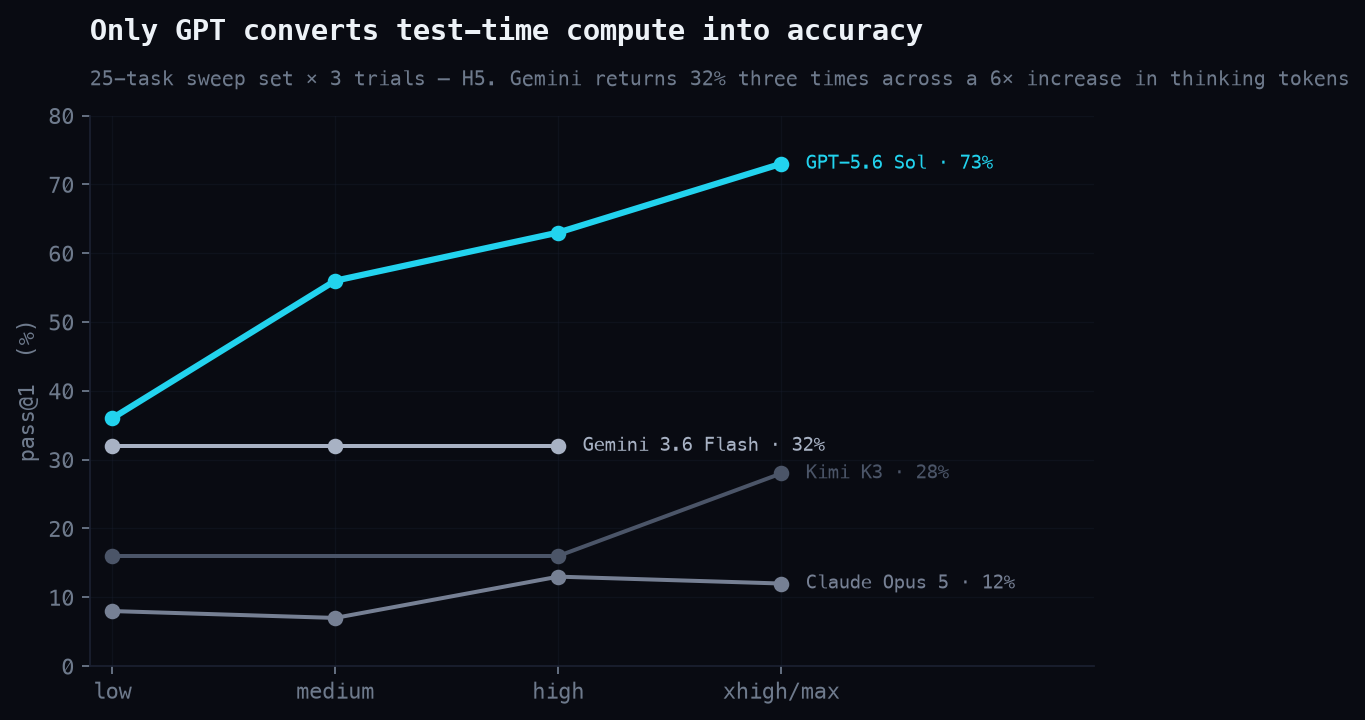
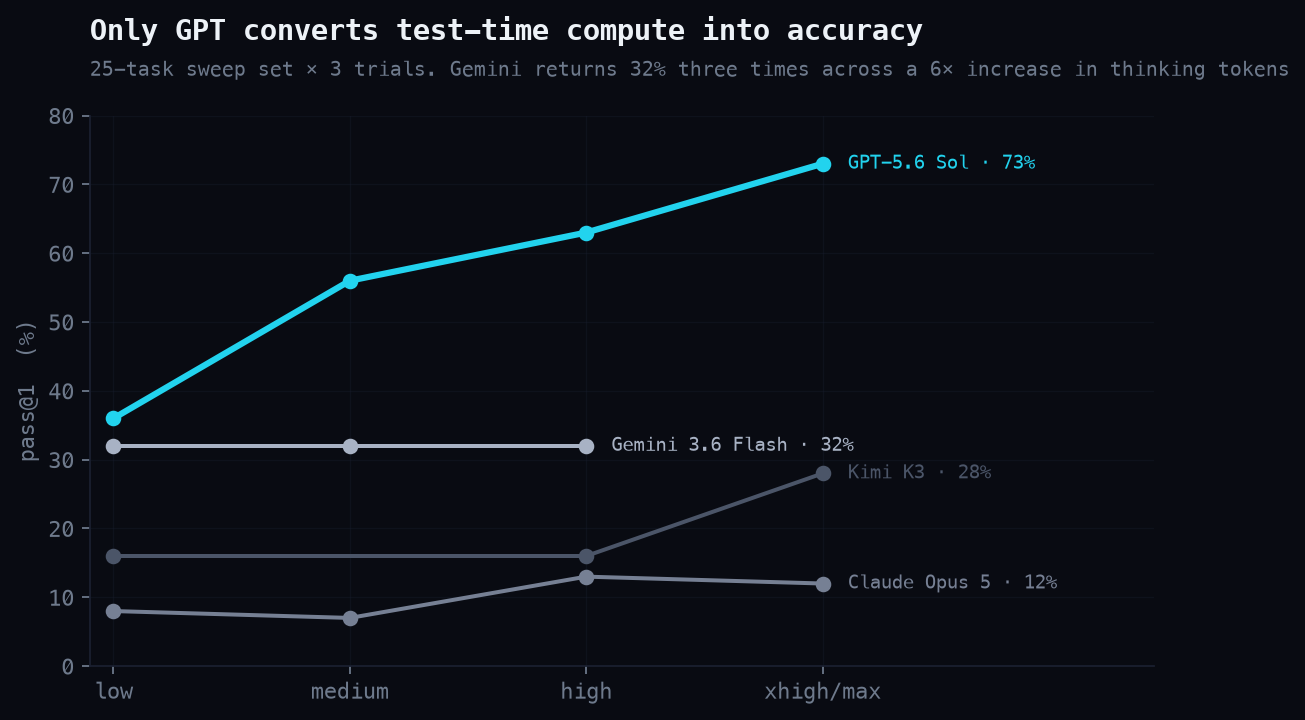
Reader-facing polish: failure-mode explainers, ablation figures, plain language
- STUDY gains a plain-terms table defining all ten failure modes before the
  per-model breakdown.
- Internal hypothesis codes (H1/H3/H5...) removed from figure subtitles and
  study prose; they remain only in ANALYSIS_PLAN.md where they are defined.
- Two ablations that were text-only get figures: dimension disclosure as a
  paired frozen->disclosed slope chart with the deltas, and the blind control
  as sighted-vs-zero bars.
- Fingerprints rebuilt: intuition paragraph (real measurements are messy;
  invention produces round numbers), plain-language axes, callout annotations
  placed off the data, and a fixed left-title fetch that had erased the bold
  title.
- Landing gallery now carries 11 figures.

diff --git a/scripts/make_figures.py b/scripts/make_figures.py
@@ -57,7 +57,10 @@ def _frame(ax, title=None, sub=None):
     if title:
         ax.set_title(title, loc="left", pad=34 if sub else 10)
     if sub:
-        ax.text(0, 1.055, sub, transform=ax.transAxes, color=DIM, fontsize=9)
+        lines = sub.count("\n") + 1
+        ax.set_title(ax.get_title(loc="left"), loc="left", pad=34 + (lines - 1) * 14)
+        ax.text(0, 1.055, sub, transform=ax.transAxes, color=DIM, fontsize=9,
+                va="bottom", linespacing=1.5)
 
 
 def save(fig, name):
@@ -126,7 +129,7 @@ def fig_tiers(rows):
     ax.set_ylabel("pass@1  (%)")
     ax.set_xlim(-0.15, 2.9)
     _frame(ax, "Difficulty is monotone for every model",
-           "measured tiers, not declared — H1")
+           "measured tiers, not declared")
     save(fig, "02-tiers.png")
 
 
@@ -151,7 +154,7 @@ def fig_effort():
     ax.set_xlim(-0.1, 4.4)
     ax.set_ylim(0, 80)
     _frame(ax, "Only GPT converts test-time compute into accuracy",
-           "25-task sweep set × 3 trials — H5. Gemini returns 32% three times across a "
+           "25-task sweep set × 3 trials. Gemini returns 32% three times across a "
            "6× increase in thinking tokens")
     save(fig, "03-effort.png")
 
@@ -260,7 +263,7 @@ def fig_feedback():
     ax.legend(fontsize=8, frameon=False, labelcolor=DIM, loc="lower right")
     ax.invert_yaxis()
     _frame(ax, "Showing a model its own mistake makes it worse",
-           "episodes whose first turn failed — H6. No model beats simply trying again")
+           "episodes whose first turn failed. No model beats simply trying again")
     save(fig, "07-feedback.png")
 
 
@@ -280,29 +283,97 @@ def fig_variance():
     ax.set_xlabel("share of variance  (%)")
     ax.invert_yaxis()
     _frame(ax, "Style is a per-maze axis, not a global one",
-           "20 topologies × 5 archetypes, identical masks — H3")
+           "20 topologies × 5 archetypes, identical masks")
     save(fig, "08-variance.png")
 
 
+def fig_dimensions():
+    """Paired delta chart: what disclosing the canvas size does per model."""
+    data = [("GPT-5.6 Sol", 48, 56, 7), ("Claude Opus 5", 16, 18, 0),
+            ("GPT-5.6 Sol · xhigh", 61, 61, None), ("Gemini 3.6 Flash", 30, 22, -12)]
+    fig, ax = plt.subplots(figsize=(8.4, 4.2))
+    y = np.arange(len(data))
+    for i, (name, frozen, disclosed, pilot) in enumerate(data):
+        delta = disclosed - frozen
+        colr = GREEN if delta > 2 else (RED if delta < -2 else DIM)
+        ax.plot([frozen, disclosed], [i, i], color=colr, lw=3, solid_capstyle="round")
+        ax.scatter([frozen], [i], s=70, color=DIM, zorder=3, label="_")
+        ax.scatter([disclosed], [i], s=90, color=colr, zorder=3, marker="D")
+        ax.annotate("", xy=(disclosed, i), xytext=(frozen, i),
+                    arrowprops=dict(arrowstyle="-|>", color=colr, lw=2))
+        ax.text(max(frozen, disclosed) + 2, i, f"{delta:+d}pp", va="center",
+                color=colr, fontsize=10, fontweight="bold")
+        if pilot is not None:
+            ax.text(max(frozen, disclosed) + 11, i, f"(pilot {pilot:+d})", va="center",
+                    color=DIM, fontsize=8)
+    ax.set_yticks(y, [d[0] for d in data])
+    ax.set_xlabel("pass@1  (%)   ○ frozen prompt → ◆ canvas size disclosed")
+    ax.set_xlim(0, 80)
+    ax.invert_yaxis()
+    _frame(ax, "Telling the model the canvas size redistributes, nets ~zero",
+           "100 mazes × 2 trials, paired per task against the main run")
+    save(fig, "10-dimensions.png")
+
+
+def fig_blind():
+    """The blind control as a picture: sighted vs blank vs wrong image."""
+    sighted = {"gpt-xhigh": 68, "openai": 54, "gemini": 26, "kimi": 20,
+               "anthropic": 18, "muse-spark": 4, "inkling": 0}
+    fig, ax = plt.subplots(figsize=(8.4, 4.2))
+    y = np.arange(len(ORDER))
+    ax.barh(y - 0.2, [sighted[p] for p in ORDER], height=0.38,
+            color="#2B7A8C", label="real image")
+    ax.barh(y + 0.2, [0] * len(ORDER), height=0.38, color=RED)
+    for i, p in enumerate(ORDER):
+        ax.text(sighted[p] + 1.2, i - 0.2, f"{sighted[p]}%", va="center",
+                color=DIM, fontsize=9)
+        ax.text(1.2, i + 0.2, "0%  blank · 0%  wrong image", va="center",
+                color=RED, fontsize=8)
+    ax.set_yticks(y, [NAMES[p] for p in ORDER])
+    ax.set_xlim(0, 80)
+    ax.set_xlabel("pass@1  (%)  ·  25 tasks × 2 trials per condition")
+    ax.invert_yaxis()
+    ax.legend(fontsize=8, frameon=False, labelcolor=DIM, loc="lower right")
+    _frame(ax, "Take the image away and every model drops to zero",
+           "same tasks, same prompt — only the pixels change. 0 passes in 700 attempts")
+    save(fig, "11-blind.png")
+
+
 def fig_fingerprints():
+    """Two perception signatures, one scatter. Labels hand-placed to avoid
+    collisions; the subtitle wraps so the canvas keeps its aspect."""
     snap = {"gpt-xhigh": 8.7, "openai": 11.5, "kimi": 19.7, "gemini": 38.9,
             "anthropic": 27.3, "muse-spark": 19.2, "inkling": 67.9}
     loc = {"gpt-xhigh": 1.3, "openai": 1.3, "kimi": 1.8, "gemini": 2.1,
            "anthropic": 2.1, "muse-spark": 8.2, "inkling": 24.7}
-    fig, ax = plt.subplots(figsize=(7.6, 4.6))
+    # (dx, dy multiplier, alignment) per label, to keep them off each other
+    nudge = {"gpt-xhigh": (1.5, 0.88, "left"), "openai": (1.5, 1.12, "left"),
+             "kimi": (1.5, 1.0, "left"), "gemini": (1.5, 1.0, "left"),
+             "anthropic": (-1.5, 1.0, "right"), "muse-spark": (1.5, 1.0, "left"),
+             "inkling": (-1.5, 1.0, "right")}
+    fig, ax = plt.subplots(figsize=(8.6, 5.0))
     for p in ORDER:
         hero = p == "inkling"
-        ax.scatter(snap[p], loc[p], s=190 if hero else 90,
-                   color=RED if hero else (CYAN if p.startswith("gpt") else DIM),
+        colr = RED if hero else (CYAN if p.startswith("gpt") else DIM)
+        ax.scatter(snap[p], loc[p], s=190 if hero else 90, color=colr,
                    zorder=3, edgecolor=BG, linewidth=1.2)
-        ax.text(snap[p] + 1.4, loc[p], NAMES[p], fontsize=8,
-                color=RED if hero else (CYAN if p.startswith("gpt") else DIM), va="center")
-    ax.set_xlabel("coordinates landing on an exact 0.01 grid  (%)")
-    ax.set_ylabel("start-badge error, median (px)")
+        dx, dy, ha = nudge[p]
+        ax.text(snap[p] + dx, loc[p] * dy, NAMES[p], fontsize=8, color=colr,
+                va="center", ha=ha)
+    ax.annotate("reads the image:\nmessy decimals, starts on the badge",
+                xy=(9, 1.3), xytext=(24, 0.72), color=CYAN, fontsize=8.5,
+                arrowprops=dict(arrowstyle="-", color=CYAN, lw=0.8, alpha=0.6))
+    ax.annotate("invents the answer:\nround numbers, misses the badge",
+                xy=(66, 22), xytext=(38, 12), color=RED, fontsize=8.5,
+                arrowprops=dict(arrowstyle="-", color=RED, lw=0.8, alpha=0.6))
+    ax.set_xlabel("share of coordinates that are round numbers (exact 0.01 grid)")
+    ax.set_ylabel("how far the path starts from\nthe start badge (median px, log)")
     ax.set_yscale("log")
     ax.set_xlim(0, 88)
-    _frame(ax, "Measuring vs. writing round numbers",
-           "bottom-left reads the image; top-right emits a mental sketch")
+    ax.set_ylim(0.55, 45)
+    _frame(ax, "Is the model measuring, or making numbers up?",
+           "every submitted coordinate, two questions: are the numbers round, and does\n"
+           "the path begin where the start badge actually is")
     save(fig, "09-fingerprints.png")
 
 
@@ -317,6 +388,8 @@ def main():
     fig_resolution()
     fig_feedback()
     fig_variance()
+    fig_dimensions()
+    fig_blind()
     fig_fingerprints()
 
 

diff --git a/scripts/build_site.py b/scripts/build_site.py
@@ -32,6 +32,8 @@ FIGURES = [
     ("05-failure-modes.png", "4,140 failures classified from trace + geometry: every model fails its own way."),
     ("06-resolution.png", "Kimi doubles on pixels alone — its effort ladder was flat."),
     ("07-feedback.png", "Seeing its own mistake beats a blind retry for no model."),
+    ("10-dimensions.png", "Disclosing the canvas size helps some models exactly as much as it hurts others."),
+    ("11-blind.png", "Take the image away and every model drops to zero — the scores come from seeing."),
     ("08-variance.png", "Style is a per-maze difficulty axis: tiny main effect, 20× larger interaction."),
     ("09-fingerprints.png", "Measuring vs. writing round numbers: Inkling snaps to a 0.01 grid and misses the badge by 25px."),
 ]

diff --git a/STUDY.md b/STUDY.md
@@ -34,7 +34,7 @@ success criterion. Three properties follow:
   the corridor, which makes failure analysis possible rather than anecdotal.
 - **Difficulty is decomposable.** Topology and rendering style are generated
   independently, so "hard maze" and "hard picture" can be separated — and they
-  behave very differently (§7).
+  behave very differently (§7 below).
 
 ---
 
@@ -167,6 +167,25 @@ not act on, and act on confusions they never narrate.
 
 ![Failure modes](results/figures/05-failure-modes.png)
 
+The modes, in plain terms:
+
+| Mode | What actually happened |
+|---|---|
+| **Cut through a wall** | Committed to a route and drew it straight through a barrier. The catch-all when the trace names no deeper cause. |
+| **Clearance failure** | The route is *right* — the path's centreline stays inside the corridor the whole way — but the 3px pointer still grazes a wall. A precision failure, not a navigation one. |
+| **Wrong start** | The path never begins on the cyan start badge. Failed at the easiest perceptual target on the board. |
+| **Walls ↔ corridors** | Decided the walls were the walkable space (or vice versa) and traced the solid regions. A figure–ground parse error. |
+| **Never looked** | The reasoning trace contains no coordinate, colour, or spatial reference at all — generic procedure with nothing image-specific in it. |
+| **Gave up verifying** | Said out loud that the path was approximate or unchecked ("maybe. Fine.") and submitted anyway. A policy failure, not a perception one. |
+| **Drew from formula** | Generated the path analytically — arcs, radii, evenly spaced angles — instead of tracing observed corridors. Smooth, regular, and wrong. |
+| **Graph, not pixels** | Reduced the maze to imagined nodes and edges, then submitted a tour of the node positions. Corridor width stops being represented at all. |
+| **Fabricated verification** | Claimed to have checked the whole route ("verified all dead ends") on a path that collides. |
+| **Invented topology** | Justified an impossible route by asserting connections that don't exist ("there might be a hidden passage… badge teleport"). |
+
+Every label requires *both* the model's own words and corroborating geometry
+from its submitted path — wording alone never assigns a cause. Per-attempt
+verdicts with their evidence are in `results/failure-modes.jsonl`.
+
 | Model | Signature failure |
 |---|---|
 | GPT (both configs) | **Clearance, 30%** — centreline legal the entire way; the swept pointer still clips a wall |
@@ -239,6 +258,8 @@ same task's main-run attempts.
 priors about where goals sit, geometry that "usually works." A blank canvas
 measures that floor; *another maze's* image is the stricter probe, catching a
 model that uses generic vision but not this picture.
+
+![Blind](results/figures/11-blind.png)
 
 25 tasks × 2 trials × 7 models × {blank canvas, another task's image}:
 **0 passes in 700 scored attempts**, route progress ~0.000 throughout. Blind
@@ -333,6 +354,8 @@ know the canvas size to convert a measured pixel into a coordinate. Disclosure
 removes that conversion step — so whether it helps or hurts localizes whether
 a model's errors live in measurement or in normalization.
 
+![Dimensions](results/figures/10-dimensions.png)
+
 Telling the model the canvas size redistributes rather than lifts: GPT +8pp,
 Gemini −8pp, Opus +2pp, netting ~zero — replicating a 25-task pilot within 1–4
 points at n=100. The mechanism is specific: disclosure cuts **wrong-start
@@ -345,6 +368,16 @@ scale from the image alone, making the disclosure redundant.
 ---
 
 ## 8. Fingerprints: measuring vs. writing round numbers
+
+**The intuition:** you can tell whether someone measured something by looking
+at the numbers they wrote down. Real measurements are messy — a model that
+located the badge in the image reports it at (0.9184, 0.1507). A model
+*imagining* a plausible maze reports (0.90, 0.15), because round numbers are
+what invention produces. The second signature is even simpler: the start badge
+is drawn at a known place, so the distance between it and the first point of
+the submitted path is a direct test of whether the model found it. Neither
+signal involves routing at all — together they separate "perceived the image"
+from "wrote plausible geometry" using nothing but the submitted coordinates.
 
 ![Fingerprints](results/figures/09-fingerprints.png)
 
@@ -371,7 +404,7 @@ across vendors is not comparing like with like.
 **Perception, not planning, is the binding constraint for most of the field** —
 and the evidence is convergent rather than a single test: the effort sweeps
 (more thinking doesn't help), the resolution ablation (more pixels does), the
-H1 regression (clearance and turns predict; length doesn't), and the trace
+difficulty regression (clearance and turns predict; length doesn't), and the trace
 taxonomy (clearance failures, figure–ground inversions, models that never
 looked).
 
